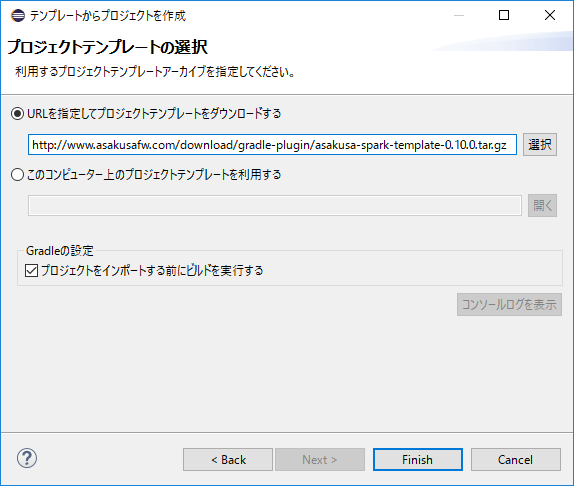
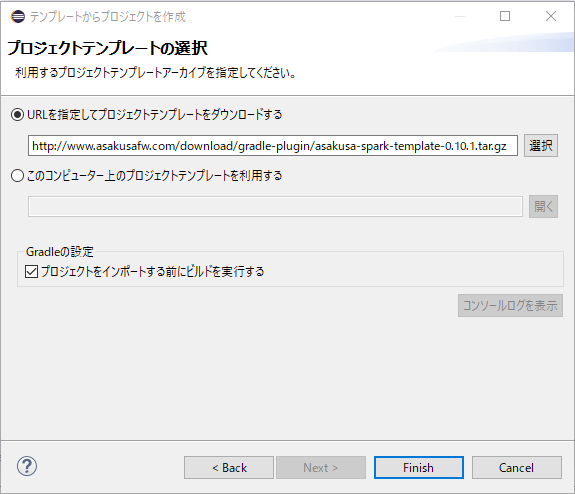
Bump Asakusa Framework version to 0.10.1

diff --git a/docs/ja/source/conf.py b/docs/ja/source/conf.py
@@ -39,13 +39,13 @@ extensions = [
 [extensions]
 
 extlinks = {
-    'asakusafw': ('http://docs.asakusafw.com/0.10.0/release/ja/html/%s',  None),
+    'asakusafw': ('http://docs.asakusafw.com/0.10.1/release/ja/html/%s',  None),
     'jinrikisha': ('http://docs.asakusafw.com/jinrikisha/ja/html/%s', None),
 }
 
 javadoclinks = {
-    'javadoc': ('http://docs.asakusafw.com/0.10.0/release/api/%s.html', ""),
-    'gradledoc': ('http://docs.asakusafw.com/0.10.0/release/gradle-plugins/%s.html', "")
+    'javadoc': ('http://docs.asakusafw.com/0.10.1/release/api/%s.html', ""),
+    'gradledoc': ('http://docs.asakusafw.com/0.10.1/release/gradle-plugins/%s.html', "")
 }
 
 # Add any paths that contain templates here, relative to this directory.
